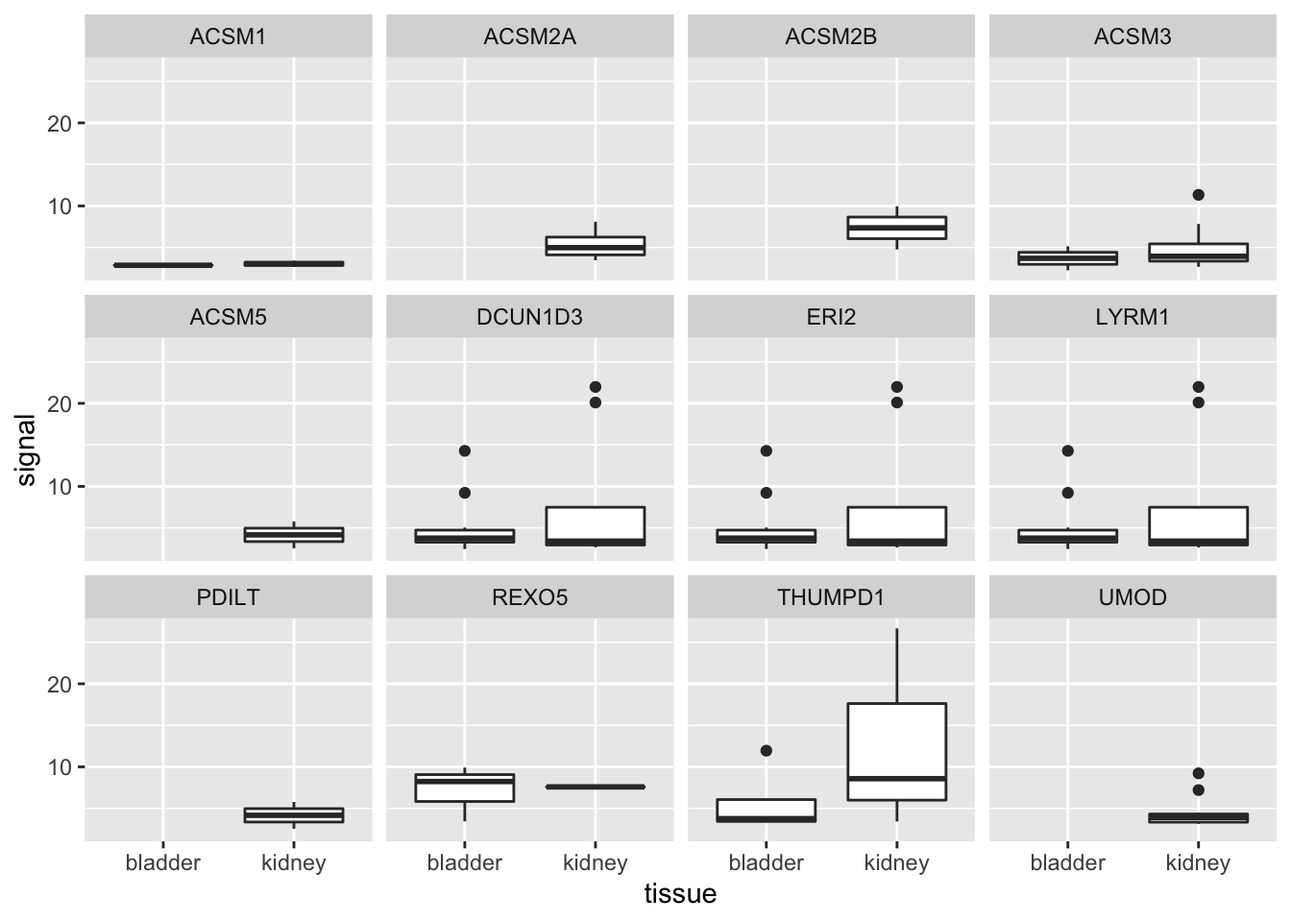
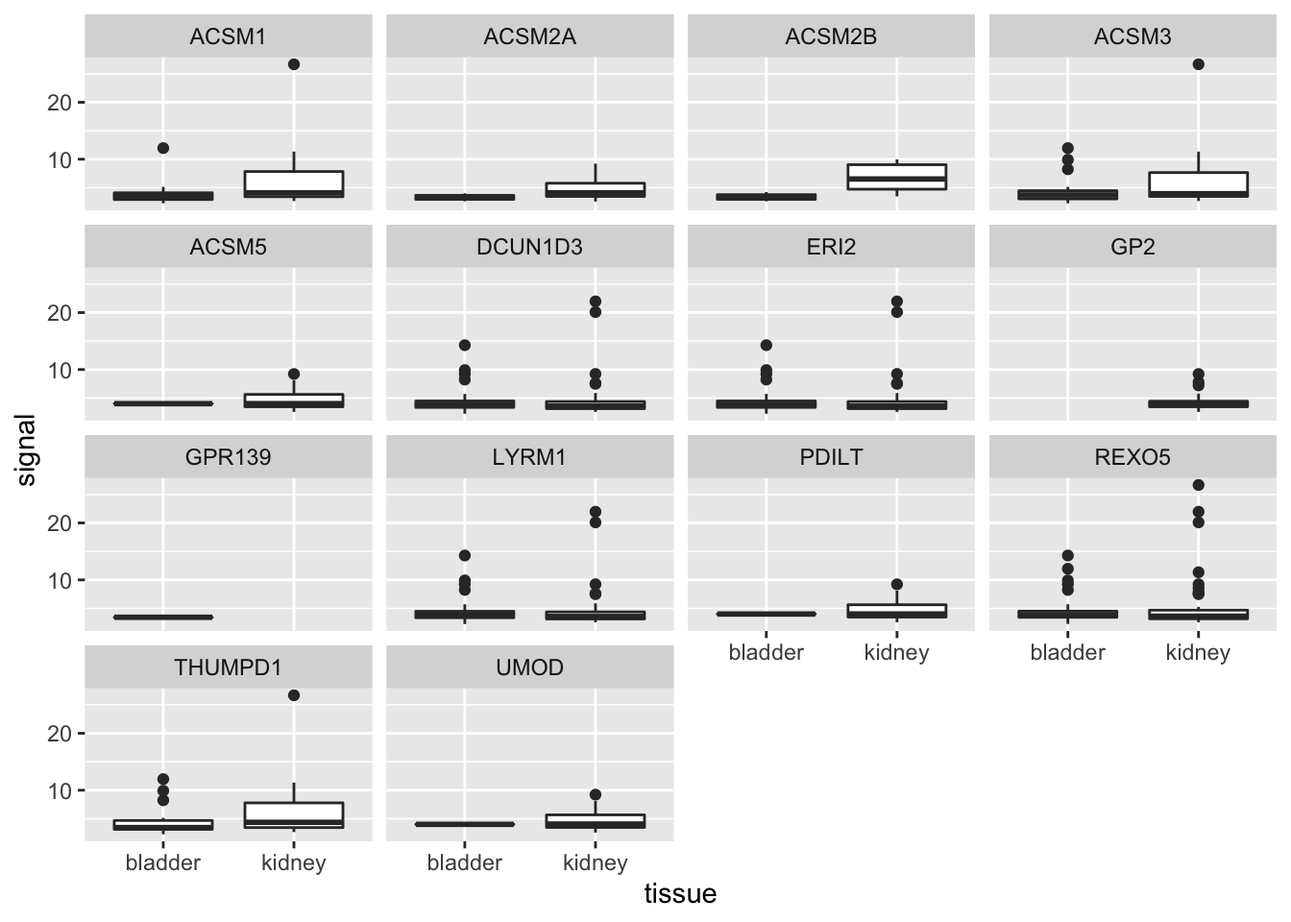
adding plotgardener

diff --git a/docs/tidy-gene-plots.html b/docs/tidy-gene-plots.html
@@ -122,28 +122,6 @@ code span.vs { color: #4070a0; } /* VerbatimString */
 code span.wa { color: #60a0b0; font-weight: bold; font-style: italic; } /* Warning */
 </style>
 
-<style type="text/css">
-/* Used with Pandoc 2.11+ new --citeproc when CSL is used */
-div.csl-bib-body { }
-div.csl-entry {
-  clear: both;
-}
-.hanging div.csl-entry {
-  margin-left:2em;
-  text-indent:-2em;
-}
-div.csl-left-margin {
-  min-width:2em;
-  float:left;
-}
-div.csl-right-inline {
-  margin-left:2em;
-  padding-left:1em;
-}
-div.csl-indent {
-  margin-left: 2em;
-}
-</style>
 
 <link rel="stylesheet" href="style.css" type="text/css" />
 </head>
@@ -192,57 +170,114 @@ div.csl-indent {
 and then plot their signal strength per gene, stratifying by the tissue
 origin of the peak.</p>
 <p>We start by loading the pre-downloaded peaks ranges:</p>
-<div class="sourceCode" id="cb133"><pre class="sourceCode r"><code class="sourceCode r"><span id="cb133-1"><a href="tidy-gene-plots.html#cb133-1" aria-hidden="true" tabindex="-1"></a><span class="fu">load</span>(<span class="st">&quot;data/peaks.rda&quot;</span>)</span></code></pre></div>
+<div class="sourceCode" id="cb1"><pre class="sourceCode r"><code class="sourceCode r"><span id="cb1-1"><a href="tidy-gene-plots.html#cb1-1" aria-hidden="true" tabindex="-1"></a><span class="fu">load</span>(<span class="st">&quot;data/peaks.rda&quot;</span>)</span></code></pre></div>
 <p>Likewise, we want to use hg19 genes again to match the hg19 peaks:</p>
-<div class="sourceCode" id="cb134"><pre class="sourceCode r"><code class="sourceCode r"><span id="cb134-1"><a href="tidy-gene-plots.html#cb134-1" aria-hidden="true" tabindex="-1"></a><span class="fu">library</span>(TxDb.Hsapiens.UCSC.hg19.knownGene)</span>
-<span id="cb134-2"><a href="tidy-gene-plots.html#cb134-2" aria-hidden="true" tabindex="-1"></a><span class="fu">library</span>(org.Hs.eg.db)</span>
-<span id="cb134-3"><a href="tidy-gene-plots.html#cb134-3" aria-hidden="true" tabindex="-1"></a>g <span class="ot">&lt;-</span> <span class="fu">genes</span>(TxDb.Hsapiens.UCSC.hg19.knownGene)</span></code></pre></div>
+<div class="sourceCode" id="cb2"><pre class="sourceCode r"><code class="sourceCode r"><span id="cb2-1"><a href="tidy-gene-plots.html#cb2-1" aria-hidden="true" tabindex="-1"></a><span class="fu">library</span>(TxDb.Hsapiens.UCSC.hg19.knownGene)</span>
+<span id="cb2-2"><a href="tidy-gene-plots.html#cb2-2" aria-hidden="true" tabindex="-1"></a><span class="fu">library</span>(org.Hs.eg.db)</span>
+<span id="cb2-3"><a href="tidy-gene-plots.html#cb2-3" aria-hidden="true" tabindex="-1"></a>g <span class="ot">&lt;-</span> <span class="fu">genes</span>(TxDb.Hsapiens.UCSC.hg19.knownGene)</span></code></pre></div>
 <p>Adding gene symbols:</p>
-<div class="sourceCode" id="cb135"><pre class="sourceCode r"><code class="sourceCode r"><span id="cb135-1"><a href="tidy-gene-plots.html#cb135-1" aria-hidden="true" tabindex="-1"></a><span class="fu">library</span>(plyranges)</span>
-<span id="cb135-2"><a href="tidy-gene-plots.html#cb135-2" aria-hidden="true" tabindex="-1"></a>g <span class="ot">&lt;-</span> g <span class="sc">%&gt;%</span></span>
-<span id="cb135-3"><a href="tidy-gene-plots.html#cb135-3" aria-hidden="true" tabindex="-1"></a>  <span class="fu">mutate</span>(<span class="at">gene_name =</span> <span class="fu">mapIds</span>(org.Hs.eg.db, </span>
-<span id="cb135-4"><a href="tidy-gene-plots.html#cb135-4" aria-hidden="true" tabindex="-1"></a>                            gene_id, <span class="st">&quot;SYMBOL&quot;</span>, <span class="st">&quot;ENTREZID&quot;</span>))</span></code></pre></div>
+<div class="sourceCode" id="cb3"><pre class="sourceCode r"><code class="sourceCode r"><span id="cb3-1"><a href="tidy-gene-plots.html#cb3-1" aria-hidden="true" tabindex="-1"></a><span class="fu">library</span>(plyranges)</span>
+<span id="cb3-2"><a href="tidy-gene-plots.html#cb3-2" aria-hidden="true" tabindex="-1"></a>g <span class="ot">&lt;-</span> g <span class="sc">%&gt;%</span></span>
+<span id="cb3-3"><a href="tidy-gene-plots.html#cb3-3" aria-hidden="true" tabindex="-1"></a>  <span class="fu">mutate</span>(<span class="at">gene_name =</span> <span class="fu">mapIds</span>(org.Hs.eg.db, </span>
+<span id="cb3-4"><a href="tidy-gene-plots.html#cb3-4" aria-hidden="true" tabindex="-1"></a>                            gene_id, <span class="st">&quot;SYMBOL&quot;</span>, <span class="st">&quot;ENTREZID&quot;</span>))</span></code></pre></div>
 <p>Find a region of the genome near a kidney-specific gene:</p>
-<div class="sourceCode" id="cb136"><pre class="sourceCode r"><code class="sourceCode r"><span id="cb136-1"><a href="tidy-gene-plots.html#cb136-1" aria-hidden="true" tabindex="-1"></a>g <span class="sc">%&gt;%</span> </span>
-<span id="cb136-2"><a href="tidy-gene-plots.html#cb136-2" aria-hidden="true" tabindex="-1"></a>  <span class="fu">filter</span>(gene_name <span class="sc">==</span> <span class="st">&quot;UMOD&quot;</span>)</span></code></pre></div>
+<div class="sourceCode" id="cb4"><pre class="sourceCode r"><code class="sourceCode r"><span id="cb4-1"><a href="tidy-gene-plots.html#cb4-1" aria-hidden="true" tabindex="-1"></a>g <span class="sc">%&gt;%</span> </span>
+<span id="cb4-2"><a href="tidy-gene-plots.html#cb4-2" aria-hidden="true" tabindex="-1"></a>  <span class="fu">filter</span>(gene_name <span class="sc">==</span> <span class="st">&quot;UMOD&quot;</span>)</span></code></pre></div>
 <pre><code>## GRanges object with 1 range and 2 metadata columns:
 ##        seqnames            ranges strand |     gene_id   gene_name
 ##           &lt;Rle&gt;         &lt;IRanges&gt;  &lt;Rle&gt; | &lt;character&gt; &lt;character&gt;
 ##   7369    chr16 20344373-20364037      - |        7369        UMOD
 ##   -------
 ##   seqinfo: 93 sequences (1 circular) from hg19 genome</code></pre>
-<div class="sourceCode" id="cb138"><pre class="sourceCode r"><code class="sourceCode r"><span id="cb138-1"><a href="tidy-gene-plots.html#cb138-1" aria-hidden="true" tabindex="-1"></a>region <span class="ot">&lt;-</span> <span class="fu">data.frame</span>(</span>
-<span id="cb138-2"><a href="tidy-gene-plots.html#cb138-2" aria-hidden="true" tabindex="-1"></a>  <span class="at">seqnames=</span><span class="st">&quot;chr16&quot;</span>, </span>
-<span id="cb138-3"><a href="tidy-gene-plots.html#cb138-3" aria-hidden="true" tabindex="-1"></a>  <span class="at">start=</span><span class="fl">20e6</span>,</span>
-<span id="cb138-4"><a href="tidy-gene-plots.html#cb138-4" aria-hidden="true" tabindex="-1"></a>  <span class="at">end=</span><span class="fl">21e6</span>) <span class="sc">%&gt;%</span></span>
-<span id="cb138-5"><a href="tidy-gene-plots.html#cb138-5" aria-hidden="true" tabindex="-1"></a>  <span class="fu">as_granges</span>()</span></code></pre></div>
+<div class="sourceCode" id="cb6"><pre class="sourceCode r"><code class="sourceCode r"><span id="cb6-1"><a href="tidy-gene-plots.html#cb6-1" aria-hidden="true" tabindex="-1"></a>region <span class="ot">&lt;-</span> <span class="fu">data.frame</span>(</span>
+<span id="cb6-2"><a href="tidy-gene-plots.html#cb6-2" aria-hidden="true" tabindex="-1"></a>  <span class="at">seqnames=</span><span class="st">&quot;chr16&quot;</span>, </span>
+<span id="cb6-3"><a href="tidy-gene-plots.html#cb6-3" aria-hidden="true" tabindex="-1"></a>  <span class="at">start=</span><span class="fl">20e6</span>,</span>
+<span id="cb6-4"><a href="tidy-gene-plots.html#cb6-4" aria-hidden="true" tabindex="-1"></a>  <span class="at">end=</span><span class="fl">21e6</span>) <span class="sc">%&gt;%</span></span>
+<span id="cb6-5"><a href="tidy-gene-plots.html#cb6-5" aria-hidden="true" tabindex="-1"></a>  <span class="fu">as_granges</span>()</span></code></pre></div>
 <p>Combine the bladder and kidney peaks, and select certain columns:</p>
-<div class="sourceCode" id="cb139"><pre class="sourceCode r"><code class="sourceCode r"><span id="cb139-1"><a href="tidy-gene-plots.html#cb139-1" aria-hidden="true" tabindex="-1"></a>pks <span class="ot">&lt;-</span> <span class="fu">bind_ranges</span>(<span class="at">bladder=</span>bladder_pks,</span>
-<span id="cb139-2"><a href="tidy-gene-plots.html#cb139-2" aria-hidden="true" tabindex="-1"></a>                   <span class="at">kidney=</span>kidney_pks,</span>
-<span id="cb139-3"><a href="tidy-gene-plots.html#cb139-3" aria-hidden="true" tabindex="-1"></a>                   <span class="at">.id=</span><span class="st">&quot;tissue&quot;</span>) <span class="sc">%&gt;%</span></span>
-<span id="cb139-4"><a href="tidy-gene-plots.html#cb139-4" aria-hidden="true" tabindex="-1"></a>  <span class="fu">select</span>(<span class="at">signal=</span>signalValue, tissue)</span></code></pre></div>
-<p>Finally, we perform the overlap join, locating peaks within 10kb of
+<div class="sourceCode" id="cb7"><pre class="sourceCode r"><code class="sourceCode r"><span id="cb7-1"><a href="tidy-gene-plots.html#cb7-1" aria-hidden="true" tabindex="-1"></a>pks <span class="ot">&lt;-</span> <span class="fu">bind_ranges</span>(<span class="at">bladder=</span>bladder_pks,</span>
+<span id="cb7-2"><a href="tidy-gene-plots.html#cb7-2" aria-hidden="true" tabindex="-1"></a>                   <span class="at">kidney=</span>kidney_pks,</span>
+<span id="cb7-3"><a href="tidy-gene-plots.html#cb7-3" aria-hidden="true" tabindex="-1"></a>                   <span class="at">.id=</span><span class="st">&quot;tissue&quot;</span>) <span class="sc">%&gt;%</span></span>
+<span id="cb7-4"><a href="tidy-gene-plots.html#cb7-4" aria-hidden="true" tabindex="-1"></a>  <span class="fu">select</span>(<span class="at">signal=</span>signalValue, tissue)</span></code></pre></div>
+<p>Finally, we perform the overlap join, locating peaks within 100kb of
 the TSS of the gene.</p>
-<div class="sourceCode" id="cb140"><pre class="sourceCode r"><code class="sourceCode r"><span id="cb140-1"><a href="tidy-gene-plots.html#cb140-1" aria-hidden="true" tabindex="-1"></a>g_with_pks <span class="ot">&lt;-</span> g <span class="sc">%&gt;%</span></span>
-<span id="cb140-2"><a href="tidy-gene-plots.html#cb140-2" aria-hidden="true" tabindex="-1"></a>  <span class="fu">anchor_5p</span>() <span class="sc">%&gt;%</span></span>
-<span id="cb140-3"><a href="tidy-gene-plots.html#cb140-3" aria-hidden="true" tabindex="-1"></a>  <span class="fu">mutate</span>(<span class="at">width=</span><span class="dv">1</span>) <span class="sc">%&gt;%</span></span>
-<span id="cb140-4"><a href="tidy-gene-plots.html#cb140-4" aria-hidden="true" tabindex="-1"></a>  <span class="fu">filter_by_overlaps</span>(region) <span class="sc">%&gt;%</span></span>
-<span id="cb140-5"><a href="tidy-gene-plots.html#cb140-5" aria-hidden="true" tabindex="-1"></a>  <span class="fu">join_overlap_inner</span>(pks, <span class="at">maxgap=</span><span class="fl">1e4</span>)</span>
-<span id="cb140-6"><a href="tidy-gene-plots.html#cb140-6" aria-hidden="true" tabindex="-1"></a>g_with_pks<span class="sc">$</span>tissue <span class="sc">%&gt;%</span> <span class="fu">table</span>()</span></code></pre></div>
+<div class="sourceCode" id="cb8"><pre class="sourceCode r"><code class="sourceCode r"><span id="cb8-1"><a href="tidy-gene-plots.html#cb8-1" aria-hidden="true" tabindex="-1"></a>g_with_pks <span class="ot">&lt;-</span> g <span class="sc">%&gt;%</span></span>
+<span id="cb8-2"><a href="tidy-gene-plots.html#cb8-2" aria-hidden="true" tabindex="-1"></a>  <span class="fu">anchor_5p</span>() <span class="sc">%&gt;%</span></span>
+<span id="cb8-3"><a href="tidy-gene-plots.html#cb8-3" aria-hidden="true" tabindex="-1"></a>  <span class="fu">mutate</span>(<span class="at">width=</span><span class="dv">1</span>) <span class="sc">%&gt;%</span></span>
+<span id="cb8-4"><a href="tidy-gene-plots.html#cb8-4" aria-hidden="true" tabindex="-1"></a>  <span class="fu">filter_by_overlaps</span>(region) <span class="sc">%&gt;%</span></span>
+<span id="cb8-5"><a href="tidy-gene-plots.html#cb8-5" aria-hidden="true" tabindex="-1"></a>  <span class="fu">join_overlap_inner</span>(pks, <span class="at">maxgap=</span><span class="fl">1e5</span>)</span>
+<span id="cb8-6"><a href="tidy-gene-plots.html#cb8-6" aria-hidden="true" tabindex="-1"></a>g_with_pks<span class="sc">$</span>tissue <span class="sc">%&gt;%</span> <span class="fu">table</span>()</span></code></pre></div>
 <pre><code>## .
 ## bladder  kidney 
-##      43      62</code></pre>
-<p>We can construct a faceted set of boxplots:</p>
-<div class="sourceCode" id="cb142"><pre class="sourceCode r"><code class="sourceCode r"><span id="cb142-1"><a href="tidy-gene-plots.html#cb142-1" aria-hidden="true" tabindex="-1"></a><span class="fu">library</span>(dplyr)</span>
-<span id="cb142-2"><a href="tidy-gene-plots.html#cb142-2" aria-hidden="true" tabindex="-1"></a><span class="fu">library</span>(tibble)</span>
-<span id="cb142-3"><a href="tidy-gene-plots.html#cb142-3" aria-hidden="true" tabindex="-1"></a><span class="fu">library</span>(ggplot2)</span>
-<span id="cb142-4"><a href="tidy-gene-plots.html#cb142-4" aria-hidden="true" tabindex="-1"></a>g_with_pks <span class="sc">%&gt;%</span></span>
-<span id="cb142-5"><a href="tidy-gene-plots.html#cb142-5" aria-hidden="true" tabindex="-1"></a>  <span class="fu">select</span>(gene_name, signal, tissue, <span class="at">.drop_ranges=</span><span class="cn">TRUE</span>) <span class="sc">%&gt;%</span></span>
-<span id="cb142-6"><a href="tidy-gene-plots.html#cb142-6" aria-hidden="true" tabindex="-1"></a>  <span class="fu">as_tibble</span>() <span class="sc">%&gt;%</span></span>
-<span id="cb142-7"><a href="tidy-gene-plots.html#cb142-7" aria-hidden="true" tabindex="-1"></a>  <span class="fu">ggplot</span>(<span class="fu">aes</span>(tissue, signal)) <span class="sc">+</span></span>
-<span id="cb142-8"><a href="tidy-gene-plots.html#cb142-8" aria-hidden="true" tabindex="-1"></a>  <span class="fu">geom_boxplot</span>() <span class="sc">+</span> </span>
-<span id="cb142-9"><a href="tidy-gene-plots.html#cb142-9" aria-hidden="true" tabindex="-1"></a>  <span class="fu">facet_wrap</span>(<span class="sc">~</span>gene_name)</span></code></pre></div>
+##     208     337</code></pre>
+<p>We can construct a faceted set of boxplots, first we make a tibble of
+data for our plot.</p>
+<div class="sourceCode" id="cb10"><pre class="sourceCode r"><code class="sourceCode r"><span id="cb10-1"><a href="tidy-gene-plots.html#cb10-1" aria-hidden="true" tabindex="-1"></a><span class="fu">library</span>(dplyr)</span>
+<span id="cb10-2"><a href="tidy-gene-plots.html#cb10-2" aria-hidden="true" tabindex="-1"></a><span class="fu">library</span>(tibble)</span>
+<span id="cb10-3"><a href="tidy-gene-plots.html#cb10-3" aria-hidden="true" tabindex="-1"></a>dat <span class="ot">&lt;-</span> g_with_pks <span class="sc">%&gt;%</span></span>
+<span id="cb10-4"><a href="tidy-gene-plots.html#cb10-4" aria-hidden="true" tabindex="-1"></a>  <span class="fu">select</span>(gene_name, signal, tissue, <span class="at">.drop_ranges=</span><span class="cn">TRUE</span>) <span class="sc">%&gt;%</span></span>
+<span id="cb10-5"><a href="tidy-gene-plots.html#cb10-5" aria-hidden="true" tabindex="-1"></a>  <span class="fu">as_tibble</span>()</span></code></pre></div>
+<p>Then pass the data to ggplot (we could have just passed the data
+directly, but we plan to re-use the data).</p>
+<div class="sourceCode" id="cb11"><pre class="sourceCode r"><code class="sourceCode r"><span id="cb11-1"><a href="tidy-gene-plots.html#cb11-1" aria-hidden="true" tabindex="-1"></a><span class="fu">library</span>(ggplot2)</span>
+<span id="cb11-2"><a href="tidy-gene-plots.html#cb11-2" aria-hidden="true" tabindex="-1"></a>dat <span class="sc">%&gt;%</span></span>
+<span id="cb11-3"><a href="tidy-gene-plots.html#cb11-3" aria-hidden="true" tabindex="-1"></a>  <span class="fu">ggplot</span>(<span class="fu">aes</span>(tissue, signal)) <span class="sc">+</span></span>
+<span id="cb11-4"><a href="tidy-gene-plots.html#cb11-4" aria-hidden="true" tabindex="-1"></a>  <span class="fu">geom_boxplot</span>() <span class="sc">+</span> </span>
+<span id="cb11-5"><a href="tidy-gene-plots.html#cb11-5" aria-hidden="true" tabindex="-1"></a>  <span class="fu">facet_wrap</span>(<span class="sc">~</span>gene_name)</span></code></pre></div>
 <p><img src="tidy-gene-plots_files/figure-html/peaks-near-genes-1.png" width="672" /></p>
+<p>Now let’s try to plot these in context, using <em>plotgardener</em>.
+First we filter down to the peaks near <em>UMOD</em>.</p>
+<div class="sourceCode" id="cb12"><pre class="sourceCode r"><code class="sourceCode r"><span id="cb12-1"><a href="tidy-gene-plots.html#cb12-1" aria-hidden="true" tabindex="-1"></a>umod <span class="ot">&lt;-</span> g <span class="sc">%&gt;%</span></span>
+<span id="cb12-2"><a href="tidy-gene-plots.html#cb12-2" aria-hidden="true" tabindex="-1"></a>  <span class="fu">filter</span>(gene_name <span class="sc">==</span> <span class="st">&quot;UMOD&quot;</span>) <span class="sc">%&gt;%</span></span>
+<span id="cb12-3"><a href="tidy-gene-plots.html#cb12-3" aria-hidden="true" tabindex="-1"></a>  <span class="fu">anchor_5p</span>() <span class="sc">%&gt;%</span></span>
+<span id="cb12-4"><a href="tidy-gene-plots.html#cb12-4" aria-hidden="true" tabindex="-1"></a>  <span class="fu">mutate</span>(<span class="at">width=</span><span class="dv">1</span>)</span>
+<span id="cb12-5"><a href="tidy-gene-plots.html#cb12-5" aria-hidden="true" tabindex="-1"></a>pks_to_plot <span class="ot">&lt;-</span> pks <span class="sc">%&gt;%</span></span>
+<span id="cb12-6"><a href="tidy-gene-plots.html#cb12-6" aria-hidden="true" tabindex="-1"></a>  <span class="fu">filter_by_overlaps</span>(umod, <span class="at">maxgap=</span><span class="fl">1e5</span>) <span class="sc">%&gt;%</span></span>
+<span id="cb12-7"><a href="tidy-gene-plots.html#cb12-7" aria-hidden="true" tabindex="-1"></a>  <span class="fu">anchor_center</span>() <span class="sc">%&gt;%</span></span>
+<span id="cb12-8"><a href="tidy-gene-plots.html#cb12-8" aria-hidden="true" tabindex="-1"></a>  <span class="fu">mutate</span>(<span class="at">width=</span><span class="fl">1e4</span>) <span class="co"># to make the ranges more visible</span></span></code></pre></div>
+<p>We then define a color scheme for the tissue variable, and make a
+ggplot object which will be added to our genome plots.</p>
+<div class="sourceCode" id="cb13"><pre class="sourceCode r"><code class="sourceCode r"><span id="cb13-1"><a href="tidy-gene-plots.html#cb13-1" aria-hidden="true" tabindex="-1"></a>cols <span class="ot">&lt;-</span> <span class="cf">function</span>(n) <span class="fu">palette.colors</span>(n<span class="sc">+</span><span class="dv">2</span>)[<span class="sc">-</span><span class="fu">c</span>(<span class="dv">1</span>,<span class="dv">3</span>)]</span>
+<span id="cb13-2"><a href="tidy-gene-plots.html#cb13-2" aria-hidden="true" tabindex="-1"></a>col_vec <span class="ot">&lt;-</span> <span class="fu">cols</span>(<span class="dv">2</span>)</span>
+<span id="cb13-3"><a href="tidy-gene-plots.html#cb13-3" aria-hidden="true" tabindex="-1"></a><span class="fu">names</span>(col_vec) <span class="ot">&lt;-</span> <span class="fu">unique</span>(dat<span class="sc">$</span>tissue)</span>
+<span id="cb13-4"><a href="tidy-gene-plots.html#cb13-4" aria-hidden="true" tabindex="-1"></a>p <span class="ot">&lt;-</span> dat <span class="sc">%&gt;%</span></span>
+<span id="cb13-5"><a href="tidy-gene-plots.html#cb13-5" aria-hidden="true" tabindex="-1"></a>  <span class="fu">filter</span>(gene_name <span class="sc">==</span> <span class="st">&quot;UMOD&quot;</span>) <span class="sc">%&gt;%</span></span>
+<span id="cb13-6"><a href="tidy-gene-plots.html#cb13-6" aria-hidden="true" tabindex="-1"></a>  <span class="fu">ggplot</span>(<span class="fu">aes</span>(tissue, signal, <span class="at">col=</span>tissue)) <span class="sc">+</span></span>
+<span id="cb13-7"><a href="tidy-gene-plots.html#cb13-7" aria-hidden="true" tabindex="-1"></a>  <span class="fu">geom_jitter</span>(<span class="at">size=</span>.<span class="dv">5</span>, <span class="at">width=</span>.<span class="dv">1</span>) <span class="sc">+</span></span>
+<span id="cb13-8"><a href="tidy-gene-plots.html#cb13-8" aria-hidden="true" tabindex="-1"></a>  <span class="fu">scale_color_manual</span>(<span class="at">values =</span> col_vec)</span></code></pre></div>
+<p>We then create some parameters that will be shared across a number of
+the plots in <em>plotgardener</em>.</p>
+<div class="sourceCode" id="cb14"><pre class="sourceCode r"><code class="sourceCode r"><span id="cb14-1"><a href="tidy-gene-plots.html#cb14-1" aria-hidden="true" tabindex="-1"></a><span class="fu">library</span>(plotgardener)</span>
+<span id="cb14-2"><a href="tidy-gene-plots.html#cb14-2" aria-hidden="true" tabindex="-1"></a>par <span class="ot">&lt;-</span> <span class="fu">pgParams</span>(</span>
+<span id="cb14-3"><a href="tidy-gene-plots.html#cb14-3" aria-hidden="true" tabindex="-1"></a>  <span class="at">chrom =</span> <span class="st">&quot;chr16&quot;</span>, </span>
+<span id="cb14-4"><a href="tidy-gene-plots.html#cb14-4" aria-hidden="true" tabindex="-1"></a>  <span class="at">chromstart =</span> <span class="fu">round</span>((<span class="fu">start</span>(umod) <span class="sc">-</span> <span class="fl">1e5</span>)<span class="sc">/</span><span class="fl">1e5</span>)<span class="sc">*</span><span class="fl">1e5</span>,</span>
+<span id="cb14-5"><a href="tidy-gene-plots.html#cb14-5" aria-hidden="true" tabindex="-1"></a>  <span class="at">chromend =</span> <span class="fu">round</span>((<span class="fu">start</span>(umod) <span class="sc">+</span> <span class="fl">4e5</span>)<span class="sc">/</span><span class="fl">1e5</span>)<span class="sc">*</span><span class="fl">1e5</span>,</span>
+<span id="cb14-6"><a href="tidy-gene-plots.html#cb14-6" aria-hidden="true" tabindex="-1"></a>  <span class="at">assembly =</span> <span class="st">&quot;hg19&quot;</span>, <span class="at">just =</span> <span class="fu">c</span>(<span class="st">&quot;left&quot;</span>, <span class="st">&quot;bottom&quot;</span>)</span>
+<span id="cb14-7"><a href="tidy-gene-plots.html#cb14-7" aria-hidden="true" tabindex="-1"></a>)</span></code></pre></div>
+<p>Finally we put all the pieces together on a page (for laying out the
+plot, first use <code>showGuides=TRUE</code>).</p>
+<div class="sourceCode" id="cb15"><pre class="sourceCode r"><code class="sourceCode r"><span id="cb15-1"><a href="tidy-gene-plots.html#cb15-1" aria-hidden="true" tabindex="-1"></a><span class="fu">pageCreate</span>(<span class="at">width =</span> <span class="dv">5</span>, <span class="at">height =</span> <span class="dv">3</span>, <span class="at">showGuides =</span> <span class="cn">FALSE</span>)</span>
+<span id="cb15-2"><a href="tidy-gene-plots.html#cb15-2" aria-hidden="true" tabindex="-1"></a><span class="fu">plotGenes</span>(</span>
+<span id="cb15-3"><a href="tidy-gene-plots.html#cb15-3" aria-hidden="true" tabindex="-1"></a>  <span class="at">params =</span> par, <span class="at">x =</span> <span class="fl">0.5</span>, <span class="at">y =</span> <span class="fl">2.5</span>, <span class="at">width =</span> <span class="dv">4</span>, <span class="at">height =</span> .<span class="dv">75</span></span>
+<span id="cb15-4"><a href="tidy-gene-plots.html#cb15-4" aria-hidden="true" tabindex="-1"></a>)</span></code></pre></div>
+<pre><code>## genes[genes1]</code></pre>
+<div class="sourceCode" id="cb17"><pre class="sourceCode r"><code class="sourceCode r"><span id="cb17-1"><a href="tidy-gene-plots.html#cb17-1" aria-hidden="true" tabindex="-1"></a><span class="fu">plotRanges</span>(</span>
+<span id="cb17-2"><a href="tidy-gene-plots.html#cb17-2" aria-hidden="true" tabindex="-1"></a>  pks_to_plot,</span>
+<span id="cb17-3"><a href="tidy-gene-plots.html#cb17-3" aria-hidden="true" tabindex="-1"></a>  <span class="at">fill =</span> <span class="fu">colorby</span>(<span class="st">&quot;tissue&quot;</span>, <span class="at">palette=</span>cols),</span>
+<span id="cb17-4"><a href="tidy-gene-plots.html#cb17-4" aria-hidden="true" tabindex="-1"></a>  <span class="at">params =</span> par, <span class="at">x =</span> <span class="fl">0.5</span>, <span class="at">y =</span> <span class="fl">1.75</span>, <span class="at">width =</span> <span class="dv">4</span>, <span class="at">height =</span> <span class="fl">1.75</span></span>
+<span id="cb17-5"><a href="tidy-gene-plots.html#cb17-5" aria-hidden="true" tabindex="-1"></a>)</span></code></pre></div>
+<pre><code>## ranges[ranges1]</code></pre>
+<div class="sourceCode" id="cb19"><pre class="sourceCode r"><code class="sourceCode r"><span id="cb19-1"><a href="tidy-gene-plots.html#cb19-1" aria-hidden="true" tabindex="-1"></a><span class="fu">plotGenomeLabel</span>(</span>
+<span id="cb19-2"><a href="tidy-gene-plots.html#cb19-2" aria-hidden="true" tabindex="-1"></a>  <span class="at">params =</span> par, <span class="at">x =</span> <span class="fl">0.5</span>, <span class="at">y =</span> <span class="fl">2.5</span>, <span class="at">length =</span> <span class="dv">4</span>,</span>
+<span id="cb19-3"><a href="tidy-gene-plots.html#cb19-3" aria-hidden="true" tabindex="-1"></a>  <span class="at">just =</span> <span class="fu">c</span>(<span class="st">&quot;left&quot;</span>, <span class="st">&quot;top&quot;</span>)</span>
+<span id="cb19-4"><a href="tidy-gene-plots.html#cb19-4" aria-hidden="true" tabindex="-1"></a>)</span></code></pre></div>
+<pre><code>## genomeLabel[genomeLabel1]</code></pre>
+<div class="sourceCode" id="cb21"><pre class="sourceCode r"><code class="sourceCode r"><span id="cb21-1"><a href="tidy-gene-plots.html#cb21-1" aria-hidden="true" tabindex="-1"></a><span class="fu">plotGG</span>(</span>
+<span id="cb21-2"><a href="tidy-gene-plots.html#cb21-2" aria-hidden="true" tabindex="-1"></a>  p <span class="sc">+</span> <span class="fu">ggtitle</span>(<span class="st">&quot;UMOD&quot;</span>), </span>
+<span id="cb21-3"><a href="tidy-gene-plots.html#cb21-3" aria-hidden="true" tabindex="-1"></a>  <span class="at">params =</span> par, <span class="at">x =</span> <span class="fl">2.25</span>, <span class="at">y =</span> <span class="fl">1.75</span>, <span class="at">width =</span> <span class="fl">2.5</span>, <span class="at">height =</span> <span class="fl">1.75</span></span>
+<span id="cb21-4"><a href="tidy-gene-plots.html#cb21-4" aria-hidden="true" tabindex="-1"></a>)</span></code></pre></div>
+<pre><code>## gg[gg1]</code></pre>
+<p><img src="tidy-gene-plots_files/figure-html/garden-1.png" width="672" /></p>
 
 </div>
             </section>

diff --git a/docs/404.html b/docs/404.html
@@ -122,28 +122,6 @@ code span.vs { color: #4070a0; } /* VerbatimString */
 code span.wa { color: #60a0b0; font-weight: bold; font-style: italic; } /* Warning */
 </style>
 
-<style type="text/css">
-/* Used with Pandoc 2.11+ new --citeproc when CSL is used */
-div.csl-bib-body { }
-div.csl-entry {
-  clear: both;
-}
-.hanging div.csl-entry {
-  margin-left:2em;
-  text-indent:-2em;
-}
-div.csl-left-margin {
-  min-width:2em;
-  float:left;
-}
-div.csl-right-inline {
-  margin-left:2em;
-  padding-left:1em;
-}
-div.csl-indent {
-  margin-left: 2em;
-}
-</style>
 
 <link rel="stylesheet" href="style.css" type="text/css" />
 </head>
